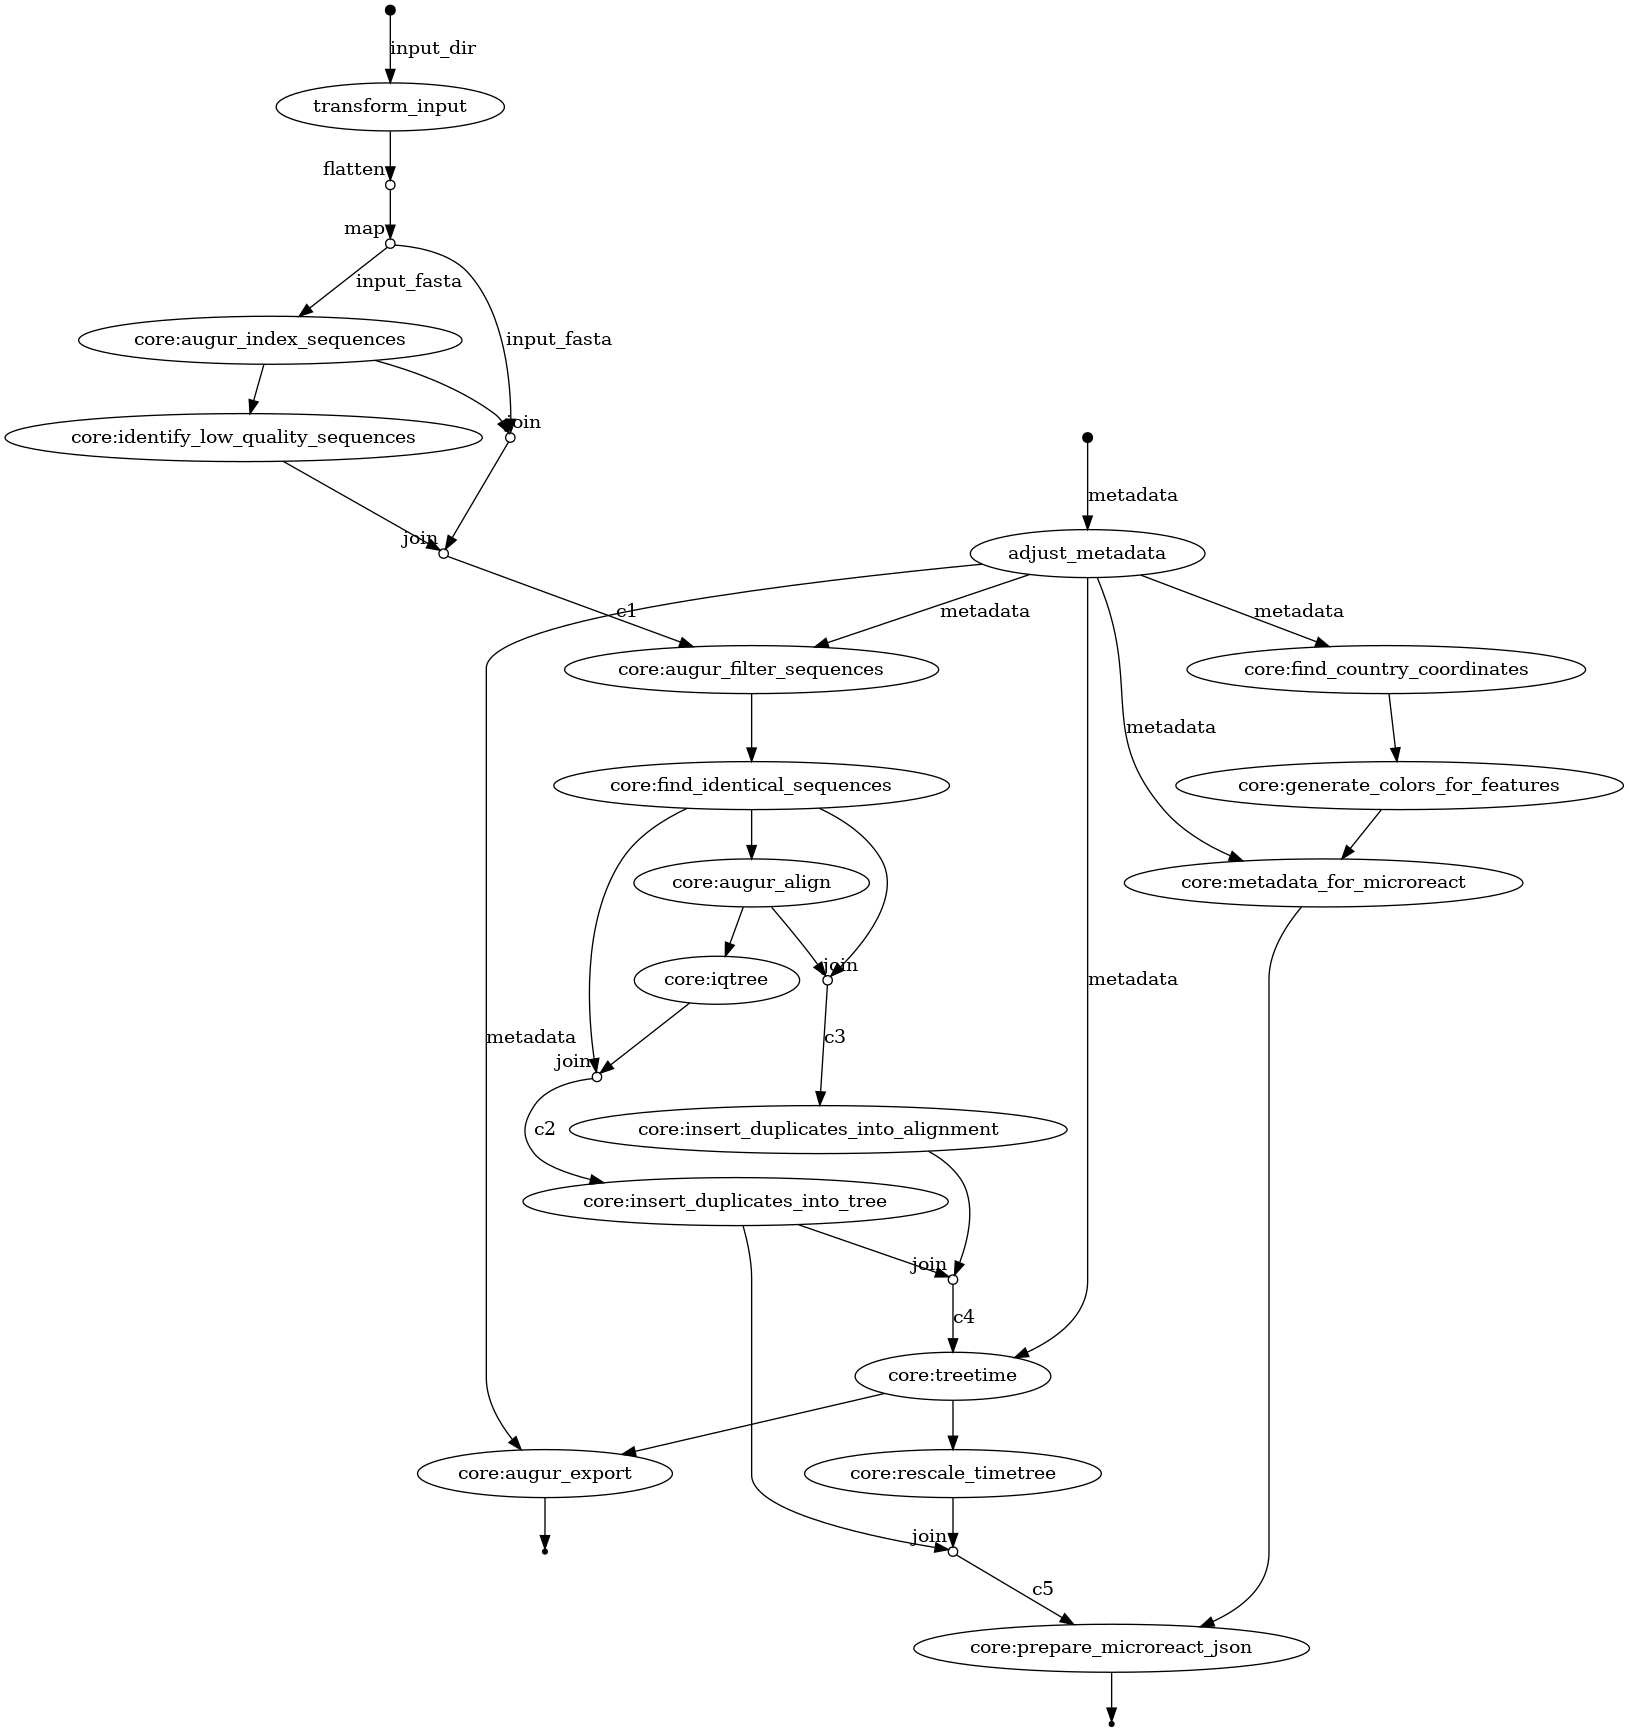
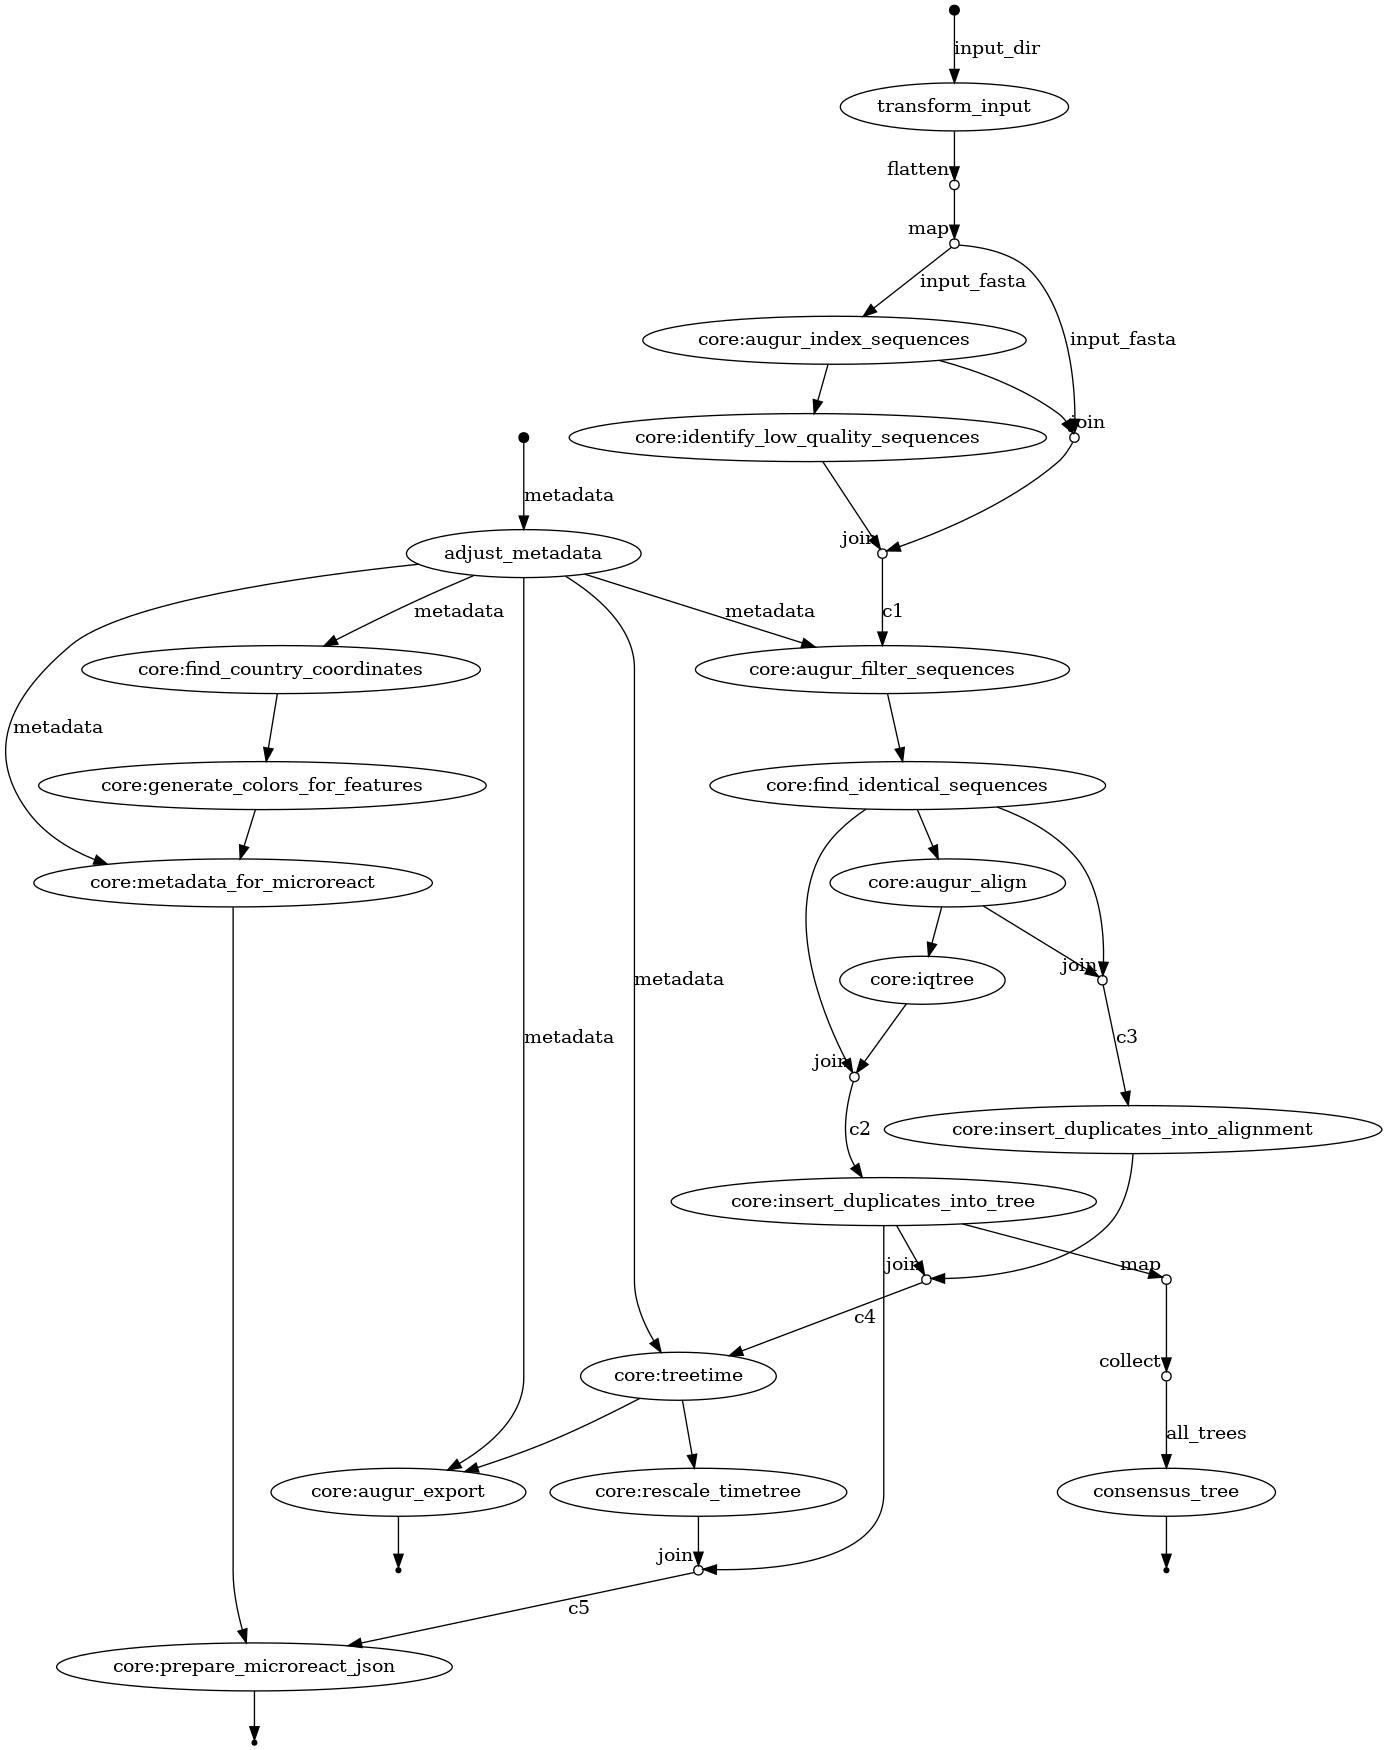
Added consensus trees building

diff --git a/bin/count_taxons.py b/bin/count_taxons.py
@@ -1,0 +1,18 @@
+#!/usr/bin/env python3
+
+import argparse
+from Bio import Phylo
+
+def main():
+    parser = argparse.ArgumentParser(description="Count taxa in Newick trees from multiple files (one tree per file).")
+    parser.add_argument("files", nargs='+', help="List of Newick files (one tree per file).")
+    args = parser.parse_args()
+
+    for filename in args.files:
+        with open(filename) as f:
+            tree = Phylo.read(f, "newick")
+            taxon_count = len(tree.get_terminals())
+            print(f"{filename}: {taxon_count} taxa")
+
+if __name__ == '__main__':
+    main()
